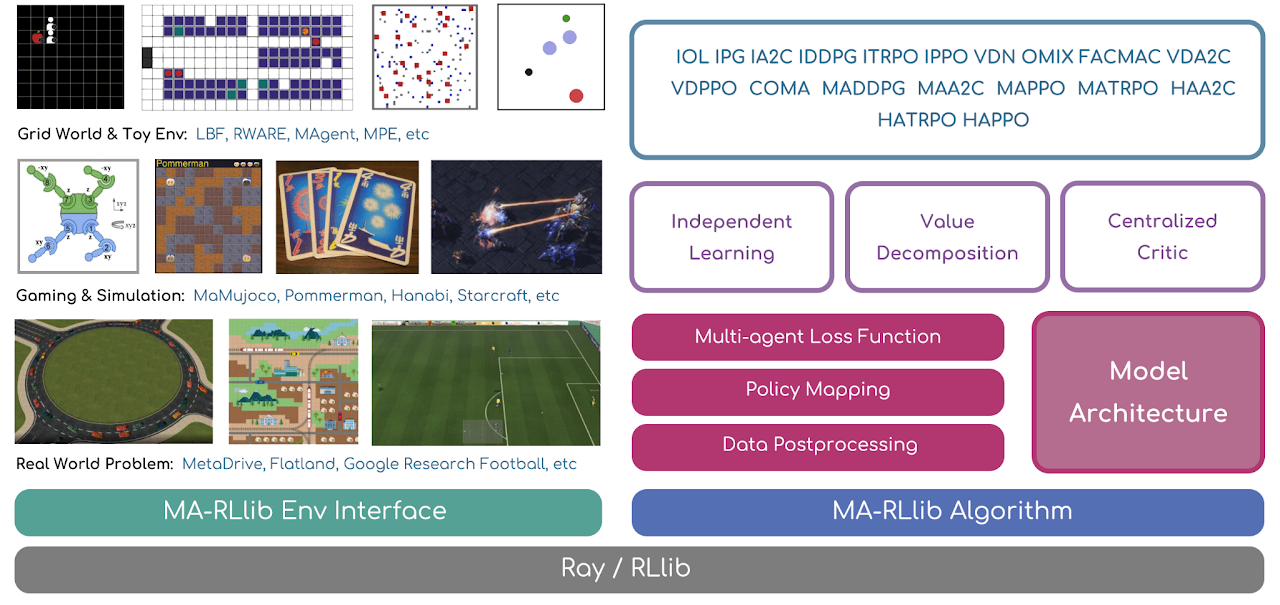
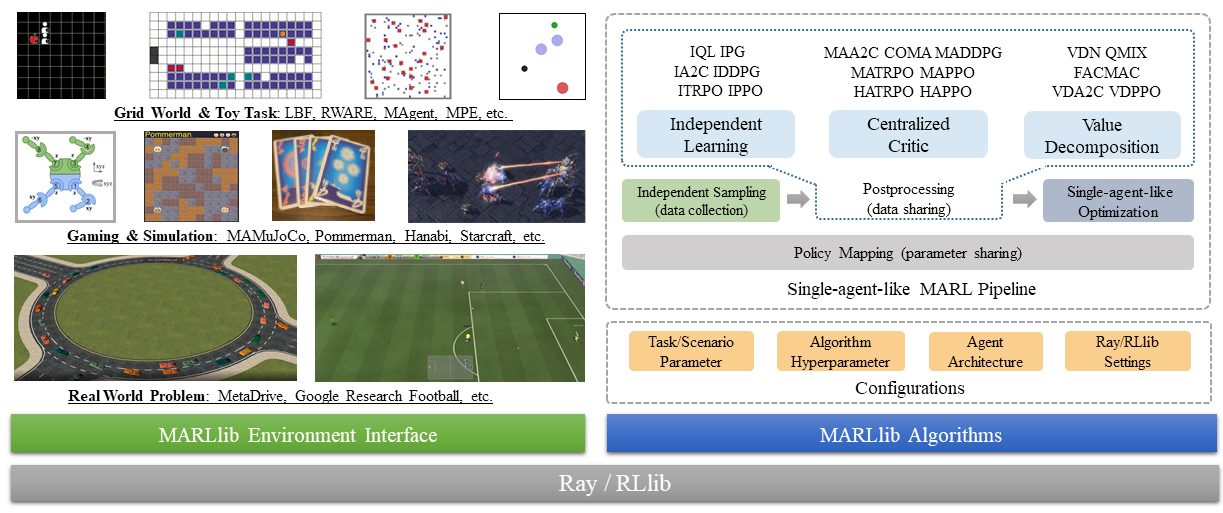
readme update

diff --git a/README.md b/README.md
@@ -12,12 +12,11 @@
 
 There are five core features of **MARLlib**.
 
-- It unifies multi-agent environment interfaces with a new interface following Gym standard and supports both synchronous and asynchronous agent-environment interaction. Currently, MARLlib provides support to ten environments (...).
-
+- It unifies multi-agent environment interfaces with a new interface following Gym standard and supports both synchronous and asynchronous agent-environment interaction. Currently, MARLlib provides support to ten environments.
 - It unifies diverse algorithm pipeline with a newly proposed single-agent perspective of implementation. Currently, MARLlib incorporates 18 algorithms and is able to handle cooperative (team-reward-only cooperation), collaborative (individual-reward-accessible cooperation), competitive (individual competition), and mixed (teamwork-based competition) tasks.
 - It classifies algorithms into independent learning, centralized critic, and value decomposition categories(inspired by EPyMARL) and enables module reuse and extensibility within each category.
 - It provides three parameter sharing strategies, namely full-sharing, non-sharing, and group-sharing, by implementing the policy mapping API of RLlib. This is implemented to be fully decoupled from algorithms and environments, and is completely controlled by configuration files.
-- It provides exhaustive experimental results (in the form of learning curves, pretrained models, logs......) of each task-algorithm combination for reference. These results are reproducible as configuration files for each experiment are provided along.
+- It provides standard 2 or 20 millions timesteps learning curve in the form of CSV of each task-algorithm for reference. These results are reproducible as configuration files for each experiment are provided along.
 
 <div align="center">
 <img src=image/overview.png width=100% />
@@ -170,11 +169,13 @@ We provide an introduction to the code directory to help you get familiar with t
 <div align="center">
 <img src=image/code-MARLlib.png width=120% />
 </div>
+
 **MARL directory structure:**
 
 <div align="center">
 <img src=image/code-MARL.png width=70% />
 </div>
+
 **ENVS directory structure:**
 
 <div align="center">
@@ -183,8 +184,6 @@ We provide an introduction to the code directory to help you get familiar with t
 
 
 ## Experiment Results
-
-
 
 
 
